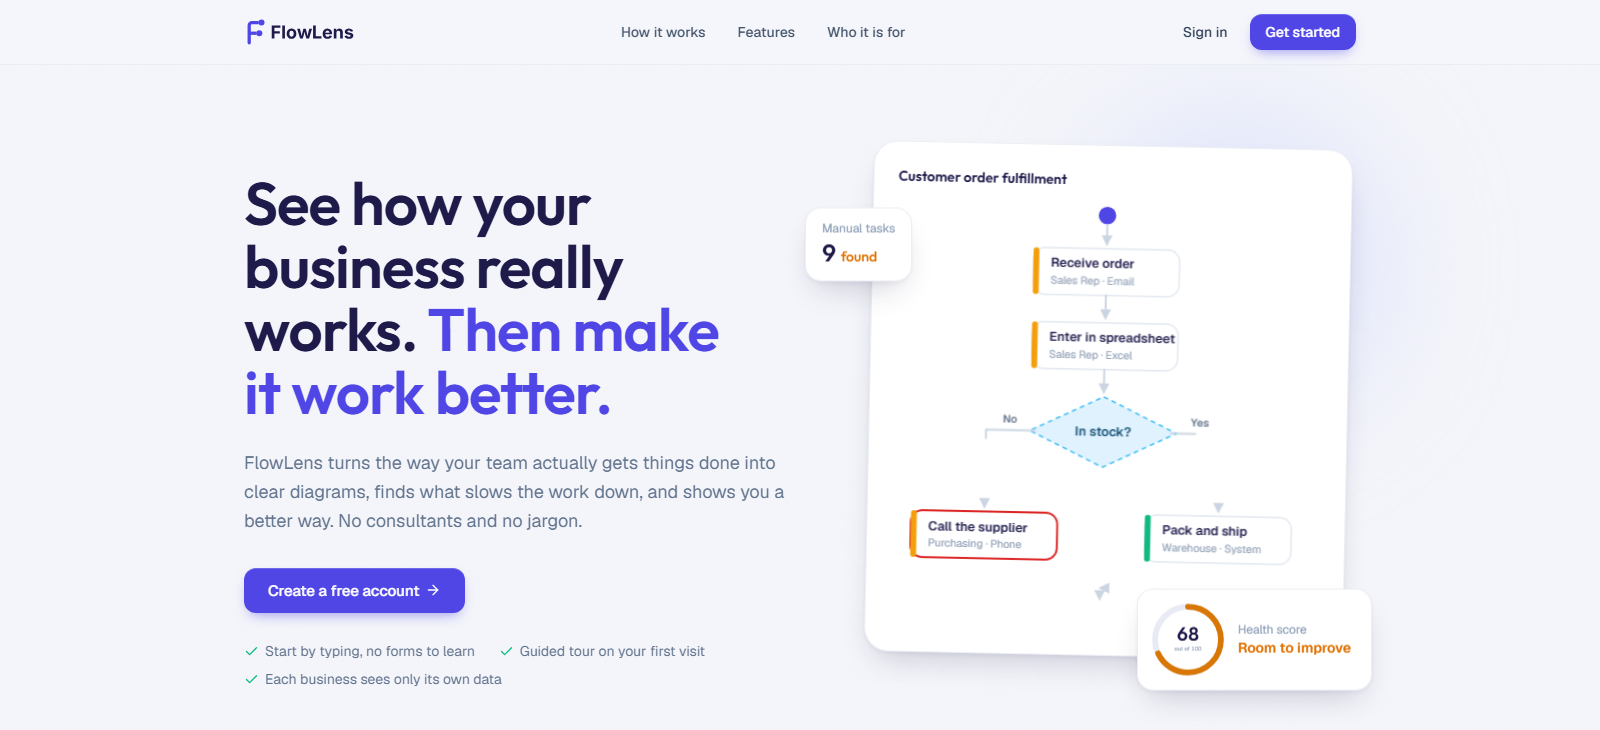
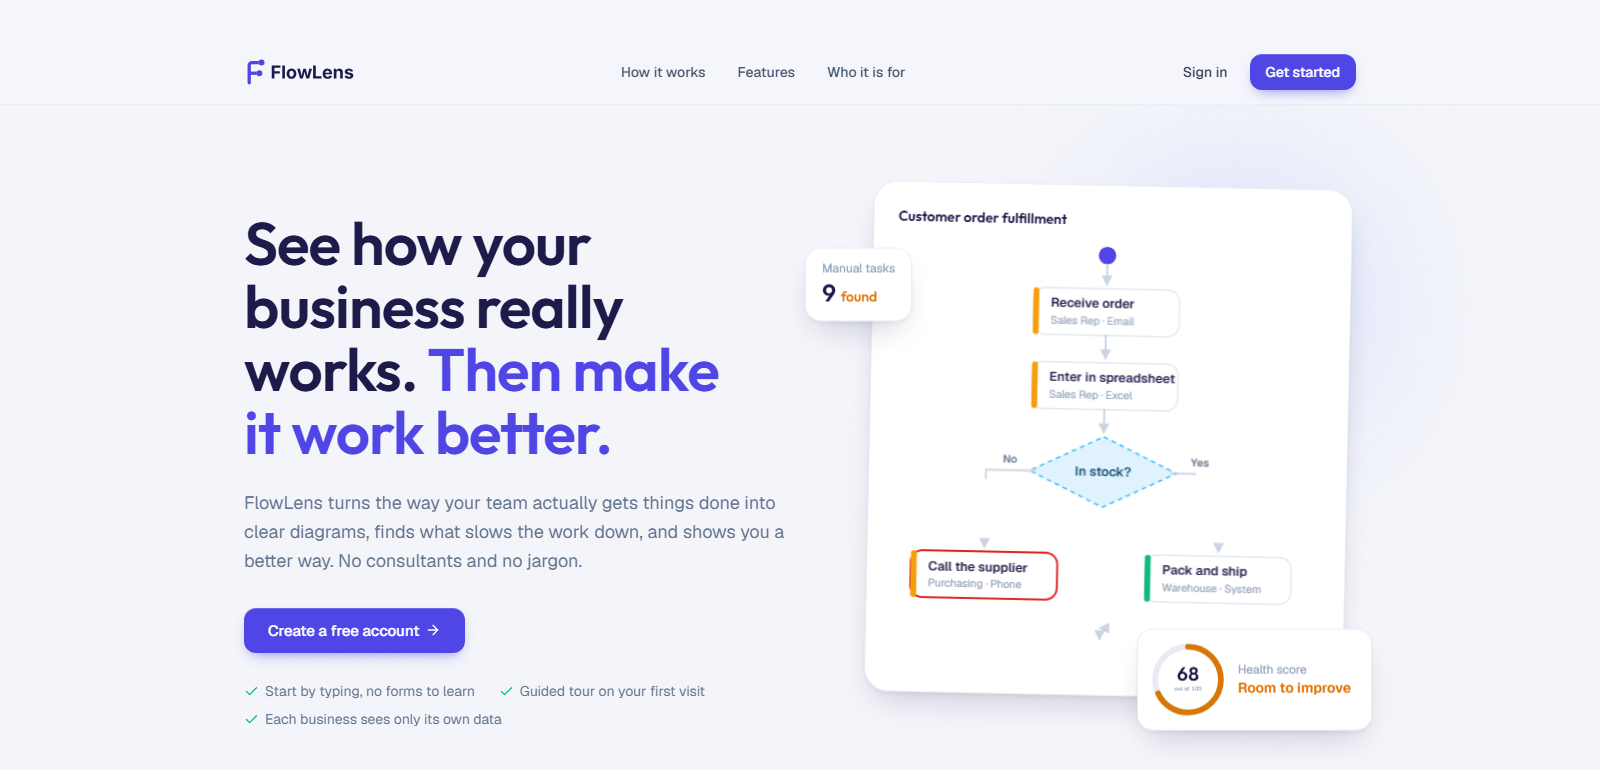
Portfolio Update: Added Project

diff --git a/index.html b/index.html
@@ -206,8 +206,8 @@
                     <article class="group relative">
                         <div class="relative">
                             <div class="absolute -top-3 inset-x-3 h-14 rounded-t-3xl bg-primary/5 pointer-events-none"></div>
-                            <div class="relative aspect-[1280/1699] rounded-2xl bg-white dark:bg-[#181818] border border-primary/10 overflow-hidden" style="aspect-ratio: 1280 / 1699;">
-                                <img src="img/VERIFAI/screen.png" alt="VerifAI — AI Google Docs extension for research verification" class="w-full h-full object-contain" loading="lazy" />
+                            <div class="relative rounded-2xl bg-white dark:bg-[#181818] border border-primary/10 overflow-hidden">
+                                <img src="img/VERIFAI/screen.png" alt="VerifAI — AI Google Docs extension for research verification" width="1402" height="1699" class="block w-full h-auto" loading="lazy" />
                             </div>
                         </div>
                         <div class="mt-6 flex items-start justify-between gap-4">
@@ -226,8 +226,8 @@
                     <article class="group relative">
                         <div class="relative">
                             <div class="absolute -top-3 inset-x-3 h-14 rounded-t-3xl bg-primary/5 pointer-events-none"></div>
-                            <div class="relative aspect-[1280/1228] rounded-2xl bg-white dark:bg-[#181818] border border-primary/10 overflow-hidden" style="aspect-ratio: 1280 / 1228;">
-                                <img src="img/CLICKSHIFT/screen.png" alt="ClickShift — smart scheduling system preview" class="w-full h-full object-contain" loading="lazy" />
+                            <div class="relative rounded-2xl bg-white dark:bg-[#181818] border border-primary/10 overflow-hidden">
+                                <img src="img/CLICKSHIFT/screen.png" alt="ClickShift — smart scheduling system preview" width="1280" height="1228" class="block w-full h-auto" loading="lazy" />
                             </div>
                         </div>
                         <div class="mt-6 flex items-start justify-between gap-4">
@@ -246,7 +246,7 @@
                     <article class="group relative">
                         <div class="relative">
                             <div class="absolute -top-3 inset-x-3 h-14 rounded-t-3xl bg-primary/5 pointer-events-none"></div>
-                            <div class="relative aspect-[1600/730] rounded-2xl bg-white dark:bg-[#181818] border border-primary/10 overflow-hidden" style="aspect-ratio: 1600 / 730;">
+                            <div class="relative aspect-[1600/770] rounded-2xl bg-white dark:bg-[#181818] border border-primary/10 overflow-hidden" style="aspect-ratio: 1600 / 770;">
                                 <img src="img/Flow-Lens/hero.png" alt="FlowLens — process discovery platform homepage" class="w-full h-full object-contain" loading="lazy" />
                             </div>
                         </div>
@@ -266,8 +266,8 @@
                     <article class="group relative">
                         <div class="relative">
                             <div class="absolute -top-3 inset-x-3 h-14 rounded-t-3xl bg-primary/5 pointer-events-none"></div>
-                            <div class="relative aspect-[1600/788] rounded-2xl bg-white dark:bg-[#181818] border border-primary/10 overflow-hidden" style="aspect-ratio: 1600 / 788;">
-                                <img src="img/One-Optics-Clinic/screen.png" alt="One Optics Clinic — online booking and eyewear platform for an optical clinic" class="w-full h-full object-contain" loading="lazy" />
+                            <div class="relative rounded-2xl bg-white dark:bg-[#181818] border border-primary/10 overflow-hidden">
+                                <img src="img/One-Optics-Clinic/hero.png" alt="One Optics Clinic — online booking and eyewear platform for an optical clinic" width="1600" height="828" class="block w-full h-auto" loading="lazy" />
                             </div>
                         </div>
 
@@ -296,8 +296,8 @@
                     <article class="group relative">
                         <div class="relative">
                             <div class="absolute -top-3 inset-x-3 h-14 rounded-t-3xl bg-primary/5 pointer-events-none"></div>
-                            <div class="relative aspect-[1280/1763] rounded-2xl bg-white dark:bg-[#181818] border border-primary/10 overflow-hidden" style="aspect-ratio: 1280 / 1763;">
-                                <img src="img/UNICHECK/UniCheck.png" alt="UniCheck PH — academic integrity platform preview" class="w-full h-full object-contain" loading="lazy" />
+                            <div class="relative rounded-2xl bg-white dark:bg-[#181818] border border-primary/10 overflow-hidden">
+                                <img src="img/UNICHECK/UniCheck.png" alt="UniCheck PH — academic integrity platform preview" width="1323" height="1762" class="block w-full h-auto" loading="lazy" />
                             </div>
                         </div>
                         <div class="mt-6 flex items-start justify-between gap-4">
@@ -316,8 +316,8 @@
                     <article class="group relative">
                         <div class="relative">
                             <div class="absolute -top-3 inset-x-3 h-14 rounded-t-3xl bg-primary/5 pointer-events-none"></div>
-                            <div class="relative aspect-[1358/1401] rounded-2xl bg-white dark:bg-[#181818] border border-primary/10 overflow-hidden" style="aspect-ratio: 1358 / 1401;">
-                                <img src="img/FBMS/screen.png" alt="FBMS Kiosk — Feedback Management System Android Kiosk App" class="w-full h-full object-contain" loading="lazy" />
+                            <div class="relative rounded-2xl bg-white dark:bg-[#181818] border border-primary/10 overflow-hidden">
+                                <img src="img/FBMS/screen.png" alt="FBMS Kiosk — Feedback Management System Android Kiosk App" width="1373" height="1373" class="block w-full h-auto" loading="lazy" />
                             </div>
                         </div>
 
@@ -342,8 +342,8 @@
                     <article class="group relative">
                         <div class="relative">
                             <div class="absolute -top-3 inset-x-3 h-14 rounded-t-3xl bg-primary/5 pointer-events-none"></div>
-                            <div class="relative aspect-[2048/1366] rounded-2xl bg-white dark:bg-[#181818] border border-primary/10 overflow-hidden">
-                                <img src="img/BMS/screen.png" alt="Barangay Management System — Digital platform for managing residents, households, documents, schedules, announcements, and reports" class="absolute inset-0 w-full h-full object-cover transition-transform duration-700 ease-out group-hover:scale-105" loading="lazy" />
+                            <div class="relative rounded-2xl bg-white dark:bg-[#181818] border border-primary/10 overflow-hidden">
+                                <img src="img/BMS/hero.png" alt="Barangay Management System — Digital platform for managing residents, households, documents, schedules, announcements, and reports" width="1280" height="560" class="block w-full h-auto" loading="lazy" />
                             </div>
                         </div>
 
@@ -363,6 +363,32 @@
                         </p>
 
                         <p class="mt-4 text-xs text-secondary">Web Application · Django · Database Management · RBAC</p>
+                    </article>
+
+                    <article class="group relative">
+                        <div class="relative">
+                            <div class="absolute -top-3 inset-x-3 h-14 rounded-t-3xl bg-primary/5 pointer-events-none"></div>
+                            <div class="relative rounded-2xl bg-white dark:bg-[#181818] border border-primary/10 overflow-hidden">
+                                <img src="img/EnTree/hero.png" alt="EnTree — job matching platform that ranks open positions by your skills and TESDA certifications" width="1440" height="700" class="block w-full h-auto" loading="lazy" />
+                            </div>
+                        </div>
+
+                        <div class="mt-6 flex items-start justify-between gap-4">
+                            <div>
+                                <p class="text-xs text-secondary">Information Systems · Database Management</p>
+                                <h3 class="mt-1 text-xl md:text-2xl font-medium tracking-tight">EnTree</h3>
+                            </div>
+
+                            <button type="button" data-project-trigger="entree" aria-label="View EnTree case study" class="shrink-0 w-10 h-10 rounded-full border border-primary/15 flex items-center justify-center hover:bg-primary hover:text-tertiary transition-colors">
+                                <span aria-hidden="true">↗</span>
+                            </button>
+                        </div>
+
+                        <p class="mt-3 text-secondary text-sm leading-relaxed">
+                            A job matching platform that ranks open positions by how well your skills and TESDA certifications fit, and shows which skills to build next.
+                        </p>
+
+                        <p class="mt-4 text-xs text-secondary">Database Management · Job Matching · Skills &amp; Certifications</p>
                     </article>
 
                 </div>

diff --git a/script.js b/script.js
@@ -207,7 +207,7 @@
             title: 'Barangay Management System',
             meta: 'Barangay Management System · 2026',
             role: 'System Analyst / Developer',
-            image: 'img/BMS/screen.png',
+            image: 'img/BMS/hero.png',
 
             description: [
                 'The Barangay Management System is a centralized web-based platform designed to streamline the management of barangay records, services, and administrative operations.',
@@ -232,6 +232,24 @@
             linkUrl: 'https://github.com/Anthz03/Barangay-Management-System',
             linkLabel: 'View on GitHub',
         },
+        entree: {
+            title: 'EnTree',
+            meta: 'Information Systems · Database Management Project',
+            role: 'Developer',
+            image: 'img/EnTree/hero.png',
+            description: [
+                'EnTree is a job matching platform built around your skills. It matches users to open positions using their skills and TESDA certifications, so they spend less time searching and more time growing.',
+                'Built as an Information Systems database management project, it ranks jobs by how well a user fits and shows which skills to build next.',
+            ],
+            bullets: [
+                'Built skill profiles with proficiency levels so employers see what applicants bring',
+                'Recorded TESDA certifications with dates to back up skills with proof',
+                'Ranked jobs by match score, showing fit and skill gaps for each posting',
+                'Added job browsing with industry and salary range filters',
+                'Showed real employers and full job details on every posting',
+            ],
+            stack: 'Database Management · Job Matching · Skills & Certifications',
+        },
         flowlens: {
             title: 'FlowLens',
             meta: 'Independent Project · 2026',
@@ -255,7 +273,7 @@
             title: 'One Optics Clinic',
             meta: 'Design Thinking Prototype · 2026',
             role: 'Builder',
-            image: 'img/One-Optics-Clinic/screen.png',
+            image: 'img/One-Optics-Clinic/hero.png',
             description: [
                 'One Optics Clinic is a web platform prototype for an optical clinic and eyewear retailer, built around a "start to finish" care model — book a professional eye exam online, then browse premium eyewear fitted by the same opticians.',
                 'The design brings exam scheduling and eyewear retail into a single flow, from appointment booking and doctor selection through to a browsable frame catalog and in-clinic fitting services.',

diff --git a/styles.css b/styles.css
@@ -264,15 +264,6 @@ body.modal-open {
     box-shadow: 0 0 0 4px rgb(var(--rgb-primary) / 0.12);
 }
 
-/* Project card images: base scale gives headroom for initProjects' ±5%
-   yPercent parallax; transition:none stops the Tailwind transition-transform
-   from smearing GSAP's per-frame scrub. GSAP owns the transform on desktop,
-   so group-hover:scale-105 yields to the scroll parallax there. */
-#projects article .relative.overflow-hidden img {
-    transform: scale(1.12);
-    transition: none;
-}
-
 @keyframes typewriter-blink {
     50% {
         opacity: 0;
